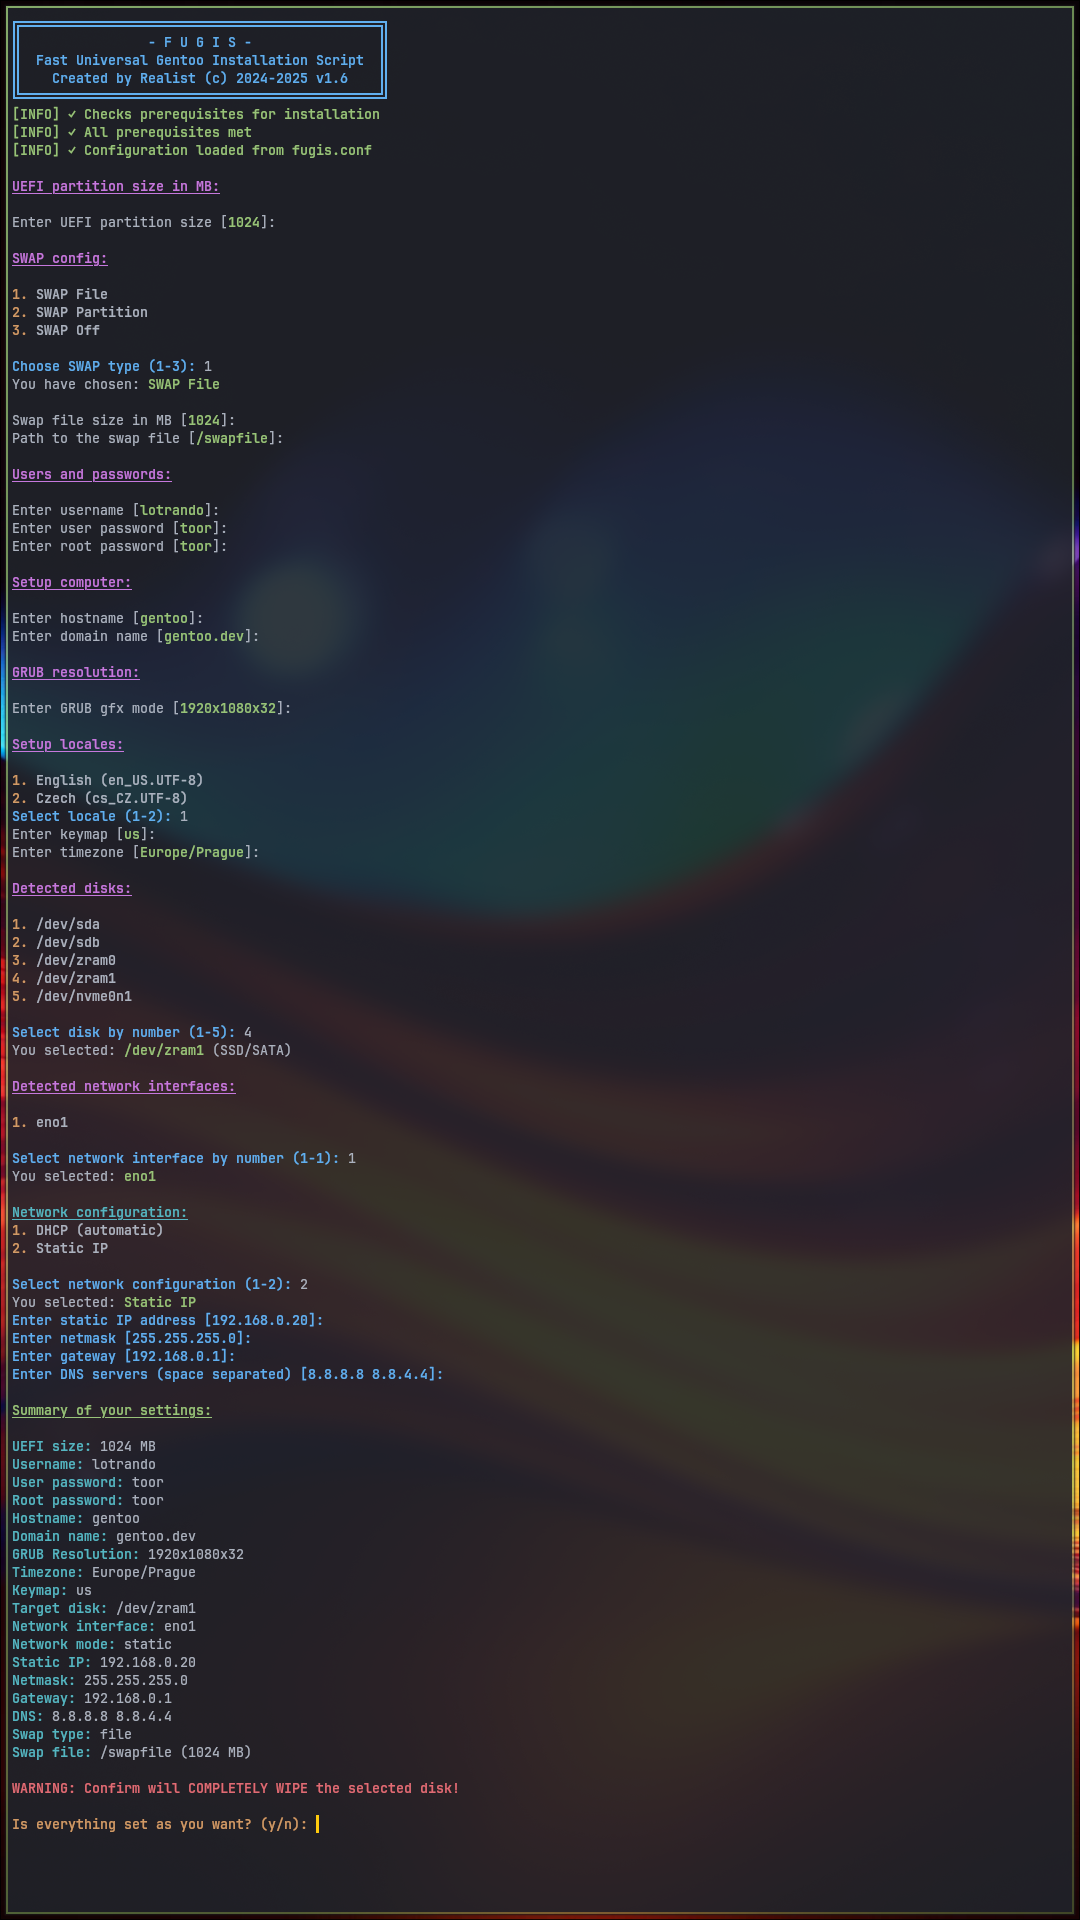
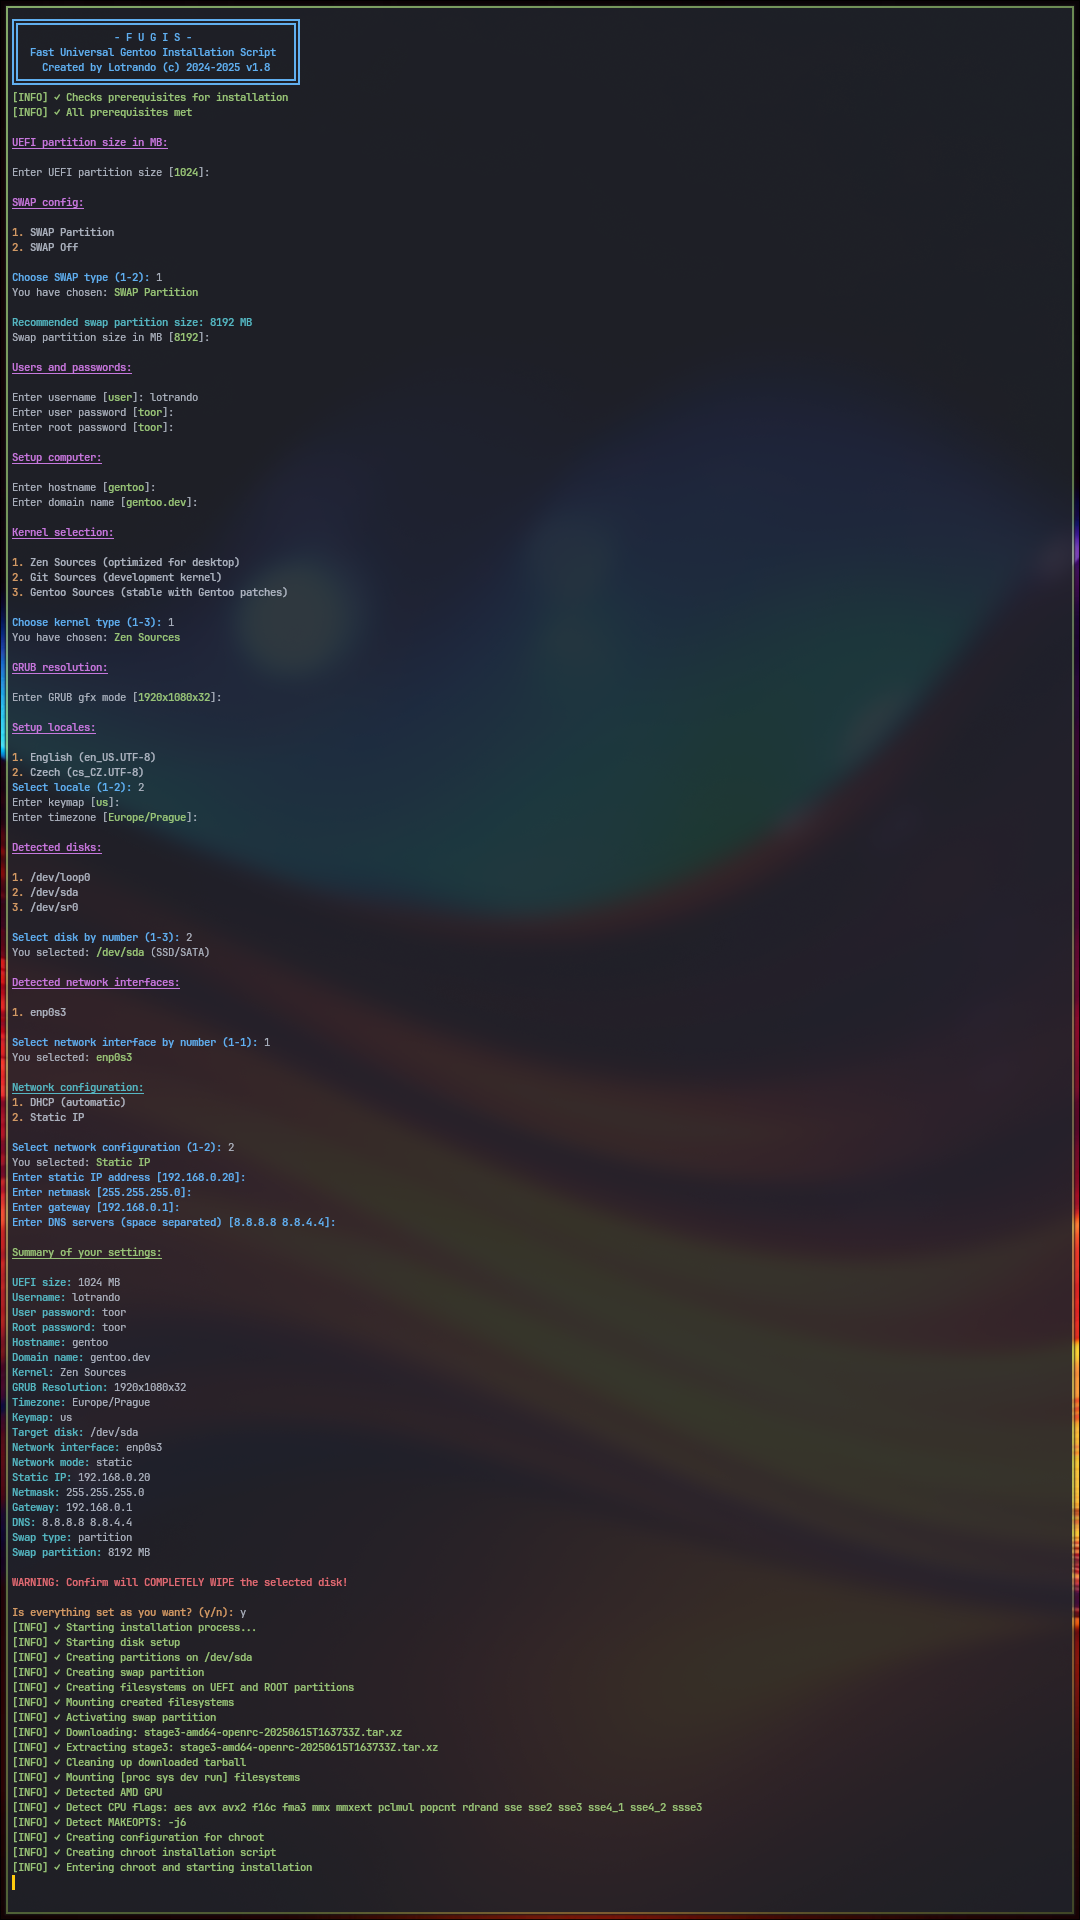
Readme update 1.8

Changed region(s): [[0.0, 0.0, 0.3972, 0.9688]]

diff --git a/README.md b/README.md
@@ -3,8 +3,6 @@
 
 ... is a debugged bash script that quickly install basic clear Gentoo Linux.
 
-<img src="screen.png" alt="Screenshot of settings before instalation procedure" />
-
 ### How to use this script ?
 - download minimal installation CD from [gentoo.org](https://distfiles.gentoo.org/releases/amd64/autobuilds/current-install-amd64-minimal/)
 - create bootable USB stick
@@ -33,17 +31,17 @@ chmod +x installer.sh && ./installer.sh
 ```
 
 ### Installation procedure
+
+
 - setup script variables and run installer
 - it will take some time to compile the kernel and packages
 - reboot and use new clear Gentoo linux
 
-### Screen after installation
+<img src="screen.png" alt="Screenshot of settings before instalation procedure" />
 
-<img src="after_install.png" alt="Screenshot after instalation procedure" />
+#### This script install only contain 26 important packages and kernel with zen kernel sources
 
-### This script install only contain 26 important packages and kernel
-
-#### Kernel Build part [ with zen kernel]
+#### Kernel Build part
 ```
 (01) dev-libs/elfutils
 (02) virtual/libelf
@@ -78,9 +76,10 @@ chmod +x installer.sh && ./installer.sh
 
 ### Installation steps
 ```
-[INFO] ✓ Configuration saved to fugis.conf
 [INFO] ✓ Starting installation process...
+[INFO] ✓ Starting disk setup
 [INFO] ✓ Creating partitions on /dev/sda
+[INFO] ✓ Creating swap partition
 [INFO] ✓ Creating filesystems
 [INFO] ✓ Mounting filesystems
 [INFO] ✓ Downloading latest stage3 tarball
@@ -97,3 +96,6 @@ chmod +x installer.sh && ./installer.sh
 [INFO] ✓ Installation completed successfully!
 [INFO] ✓ Cleaning up...
 ```
+### Screen after installation
+
+<img src="after_install.png" alt="Screenshot after instalation procedure" />
